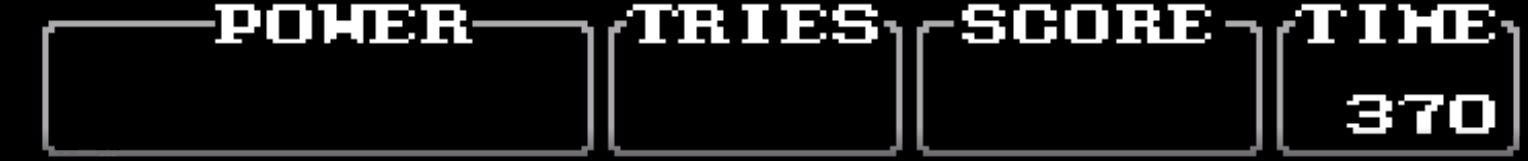
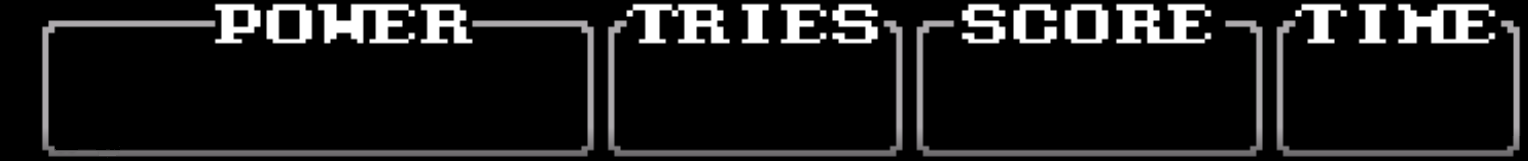
Afegit chest i coin, afegit que es consegueixi score

Changed region(s): [[0.8613, 0.559, 0.9843, 0.8385]]

diff --git a/castleofillusion/Scene.cpp b/castleofillusion/Scene.cpp
@@ -69,11 +69,27 @@ void Scene::init() {
 	entityArray[2]->setPlayer(player);
 	entityArray[2]->setPosition(glm::vec2((INIT_PLAYER_X_TILES + 1) * map->getTileSize(), (13) * map->getTileSize()));
 
-	entityArray.push_back(new FlowerEnemy());
+	Chest* chest = new Chest();
+	chest->setObjectToSpawn(0);
+	entityArray.push_back(chest);
+	entityArray[3]->setTileMap(map);
 	entityArray[3]->init(glm::ivec2(SCREEN_X, SCREEN_Y), texProgram);
 	entityArray[3]->setPlayer(player);
-	entityArray[3]->setPosition(glm::vec2((INIT_ENEMY_X_TILES + 1) * map->getTileSize(), (INIT_ENEMY_Y_TILES + 1) * map->getTileSize()));
-	entityArray[3]->setTileMap(map);
+	entityArray[3]->setPosition(glm::vec2((INIT_PLAYER_X_TILES - 1) * map->getTileSize(), (13) * map->getTileSize()));
+
+	chest = new Chest();
+	chest->setObjectToSpawn(1);
+	entityArray.push_back(chest);
+	entityArray[4]->setTileMap(map);
+	entityArray[4]->init(glm::ivec2(SCREEN_X, SCREEN_Y), texProgram);
+	entityArray[4]->setPlayer(player);
+	entityArray[4]->setPosition(glm::vec2((INIT_PLAYER_X_TILES + 2) * map->getTileSize(), (13) * map->getTileSize()));
+
+	entityArray.push_back(new FlowerEnemy());
+	entityArray[5]->init(glm::ivec2(SCREEN_X, SCREEN_Y), texProgram);
+	entityArray[5]->setPlayer(player);
+	entityArray[5]->setPosition(glm::vec2((INIT_ENEMY_X_TILES + 1) * map->getTileSize(), (INIT_ENEMY_Y_TILES + 1) * map->getTileSize()));
+	entityArray[5]->setTileMap(map);
 
 	initInterface();
 	// View at player position
@@ -215,7 +231,7 @@ void Scene::renderInterface() {
 	}
 	int score = player->getScore();
 	for (int i = 0; i < 6; ++i) {
-		numberSprite->setPosition(glm::vec2(800 + i * 35, 65));
+		numberSprite->setPosition(glm::vec2(840 + i * 35, 100));
 		int n;
 		switch (i) {
 		case 5:

diff --git a/castleofillusion/Coin.cpp b/castleofillusion/Coin.cpp
@@ -1,5 +1,4 @@
-#include "Cake.h"
-#include <iostream>
+#include "Coin.h"
 
 #define OFFSET_X 0.125
 #define OFFSET_Y 0.5
@@ -7,18 +6,18 @@
 #define HITBOX_X 16
 #define HITBOX_Y 16
 
-void Cake::init(const glm::ivec2& tileMapPos, ShaderProgram& shaderProgram) {
+void Coin::init(const glm::ivec2& tileMapPos, ShaderProgram& shaderProgram) {
 	dead = false;
 	spritesheet.loadFromFile("images/items.png", TEXTURE_PIXEL_FORMAT_RGBA);
 	sprite = Sprite::createSprite(glm::ivec2(16, 16), glm::vec2(OFFSET_X, OFFSET_Y), &spritesheet, &shaderProgram);
 	sprite->setNumberAnimations(2);
 
 	sprite->setAnimationSpeed(0, 1);
-	sprite->addKeyframe(0, glm::vec2(0.f, 0.f));
+	sprite->addKeyframe(0, glm::vec2(3 * OFFSET_X, 0.f));
 
 	sprite->setAnimationSpeed(1, 1);
-	sprite->addKeyframe(1, glm::vec2(0.f, 0.f));
-	
+	sprite->addKeyframe(1, glm::vec2(3 * OFFSET_X, 0.f));
+
 	sprite->changeAnimation(1);
 	tileMapDispl = glm::vec2(tileMapPos);
 	hitbox_x = 16;
@@ -26,7 +25,7 @@ void Cake::init(const glm::ivec2& tileMapPos, ShaderProgram& shaderProgram) {
 	sprite->setPosition(glm::vec2(float(tileMapDispl.x + pos.x), float(tileMapDispl.y + pos.y)));
 }
 
-void Cake::update(int deltaTime) {
+void Coin::update(int deltaTime) {
 	pos.y += 4;
 	map->collisionMoveDown(pos, glm::vec2(hitbox_x, hitbox_y), &pos.y);
 	if (player->checkCollision(getCollisionBox())) {
@@ -35,10 +34,8 @@ void Cake::update(int deltaTime) {
 	setPosition(pos);
 }
 
-void Cake::onEntityHit(bool IsPlayer) {
-	int playerLives = player->getLives();
-	if (playerLives < 3) {
-		player->setLives(++playerLives);
-	}
+void Coin::onEntityHit(bool IsPlayer) {
+	player->addScore(10);
 	dead = true;
 }
+

diff --git a/castleofillusion/Chest.cpp b/castleofillusion/Chest.cpp
@@ -1,0 +1,60 @@
+#include "Chest.h"
+#include "Game.h"
+#include "Cake.h"
+#include "Coin.h"
+
+#define OFFSET_X 0.125
+#define OFFSET_Y 0.5
+
+void Chest::init(const glm::ivec2& tileMapPos, ShaderProgram& shaderProgram) {
+	dead = false;
+	spritesheet.loadFromFile("images/blocks.png", TEXTURE_PIXEL_FORMAT_RGBA);
+	sprite = Sprite::createSprite(glm::ivec2(16, 16), glm::vec2(OFFSET_X, OFFSET_Y), &spritesheet, &shaderProgram);
+	sprite->setNumberAnimations(2);
+
+	sprite->setAnimationSpeed(0, 1);
+	sprite->addKeyframe(0, glm::vec2(0.f, 0.f));
+
+	sprite->setAnimationSpeed(1, 1);
+	sprite->addKeyframe(1, glm::vec2(0.f, 0.f));
+
+	sprite->changeAnimation(1);
+	tileMapDispl = glm::vec2(tileMapPos);
+	hitbox_x = 16;
+	hitbox_y = 16;
+	tileSize = map->getTileSize();
+	tileX = pos.x / tileSize;
+	tileY = pos.y / tileSize;
+	sprite->setPosition(glm::vec2(float(tileMapDispl.x + pos.x), float(tileMapDispl.y + pos.y)));
+}
+
+void Chest::onEntityHit(bool isPlayer) {
+	dead = true;
+	Cake* cake;
+	Coin* coin;
+	switch (objectToSpawn) {
+	case 0:
+		cake = new Cake();
+		cake->init(glm::ivec2(tileMapDispl), Game::instance().getScene()->getShaderProgram());
+		cake->setTileMap(map);
+		Game::instance().getScene()->addEntity(cake);
+		cake->setPlayer(player);
+		cake->setPosition(pos);
+		break;
+	case 1:
+		coin = new Coin();
+		coin->init(glm::ivec2(tileMapDispl), Game::instance().getScene()->getShaderProgram());
+		coin->setTileMap(map);
+		Game::instance().getScene()->addEntity(coin);
+		coin->setPlayer(player);
+		coin->setPosition(pos);
+	default:
+		break;
+	}
+
+}
+
+void Chest::setObjectToSpawn(int id) {
+	objectToSpawn = id;
+}
+

diff --git a/castleofillusion/Block.cpp b/castleofillusion/Block.cpp
@@ -45,6 +45,7 @@ void Block::update(int deltaTime) {
 				pos.x = tileX * tileSize;
 				pos.y = tileY * tileSize;
 				falling = true;
+				onEntityHit();
 			}
 		}
 		else {
@@ -56,6 +57,7 @@ void Block::update(int deltaTime) {
 				pos.x = tileX * tileSize;
 				pos.y = tileY * tileSize;
 				falling = true;
+				onEntityHit();
 			}
 		}
 		entities = Game::instance().getScene()->getEnemies();
@@ -63,6 +65,7 @@ void Block::update(int deltaTime) {
 			if (entities[i] != nullptr && entities[i] != this) {
 				if (checkCollision(entities[i]->getCollisionBox())) {
 					entities[i]->onEntityHit(false);
+					player->addScore(10);
 					onEntityHit();
 				};
 			}

diff --git a/castleofillusion/Block.h b/castleofillusion/Block.h
@@ -3,8 +3,6 @@
 
 
 #include "NonPlayerEntity.h"
-#include "Scene.h"
-
 
 class Block : public NonPlayerEntity
 {
@@ -15,7 +13,7 @@ public:
 	virtual void onEntityHit(bool IsPlayer = true);
 
 	bool checkCollision(glm::vec4 hitboxentity);
-private:
+protected:
 	bool pickedUp = false, transition = false, falling = false,throwed = false,left = false;
 	int tileX, tileY,tileSize;
 	vector<NonPlayerEntity*> entities;

diff --git a/castleofillusion/Player.h b/castleofillusion/Player.h
@@ -37,6 +37,7 @@ public:
 	int getLives();
 	int getTries();
 	int getScore();
+	void addScore(int points);
 
 private:
 	irrklang::ISoundEngine* soundEngine;
@@ -44,7 +45,7 @@ private:
 	bool bJumping,falling, crouching, groundpounding, hit;
 	int jumpAngle;
 	float speedX,speedY, startY;
-	int tries = 3,score = 123456;
+	int tries = 3,score = 0;
 	bool godMode = false,object = false;
 };
 

diff --git a/castleofillusion/Chest.h b/castleofillusion/Chest.h
@@ -1,0 +1,13 @@
+#ifndef _CHEST_INCLUDE
+#define _CHEST_INCLUDE
+#include "Block.h"
+
+class Chest : public Block {
+public:
+	virtual void init(const glm::ivec2& tileMapPos, ShaderProgram& shaderProgram);
+	virtual void onEntityHit(bool isPlayer = true);
+	void setObjectToSpawn(int id);
+private:
+	int objectToSpawn;
+};
+#endif // _CHEST_INCLUDE 

diff --git a/castleofillusion/Coin.h b/castleofillusion/Coin.h
@@ -1,0 +1,15 @@
+#ifndef _COIN_INCLUDE
+#define _COIN_INCLUDE
+
+#include "NonPlayerEntity.h"
+
+class Coin : public NonPlayerEntity {
+public:
+	virtual void init(const glm::ivec2& tileMapPos, ShaderProgram& shaderProgram);
+	virtual void update(int deltaTime);
+	virtual void onEntityHit(bool IsPlayer = true);
+
+};
+
+
+#endif // _COIN_INCLUDE

diff --git a/castleofillusion/TreeEnemy.cpp b/castleofillusion/TreeEnemy.cpp
@@ -98,8 +98,9 @@ void TreeEnemy::update(int deltaTime) {
 }
 
 void TreeEnemy::onEntityHit(bool isPlayer) {
-	if (player->isPlayerGroundPounding() || !isPlayer) {
+	if (player->isPlayerGroundPounding() ||!isPlayer) {
 		dying = true;
+		if(isPlayer) player->addScore(10);
 	}
 	else {
 		if (player->isInvulnerable()) {

diff --git a/castleofillusion/FlowerEnemy.cpp b/castleofillusion/FlowerEnemy.cpp
@@ -147,6 +147,7 @@ void FlowerEnemy::update(int deltaTime) {
 void FlowerEnemy::onEntityHit(bool isPlayer) {
 	if (player->isPlayerGroundPounding() || !isPlayer) {
 		dying = true;
+		if (isPlayer) player->addScore(10);
 	}
 	else {
 		if (player->isInvulnerable()) {

diff --git a/castleofillusion/Scene.h b/castleofillusion/Scene.h
@@ -12,7 +12,7 @@
 #include "Cake.h"
 #include "Block.h"
 #include "FlowerEnemy.h"
-
+#include "Chest.h"
 
 // Scene contains all the entities of our game.
 // It is responsible for updating and render them.

diff --git a/castleofillusion/Player.cpp b/castleofillusion/Player.cpp
@@ -450,3 +450,7 @@ int Player::getTries() {
 int Player::getScore() {
 	return score;
 }
+
+void Player::addScore(int points) {
+	score += points;
+}
